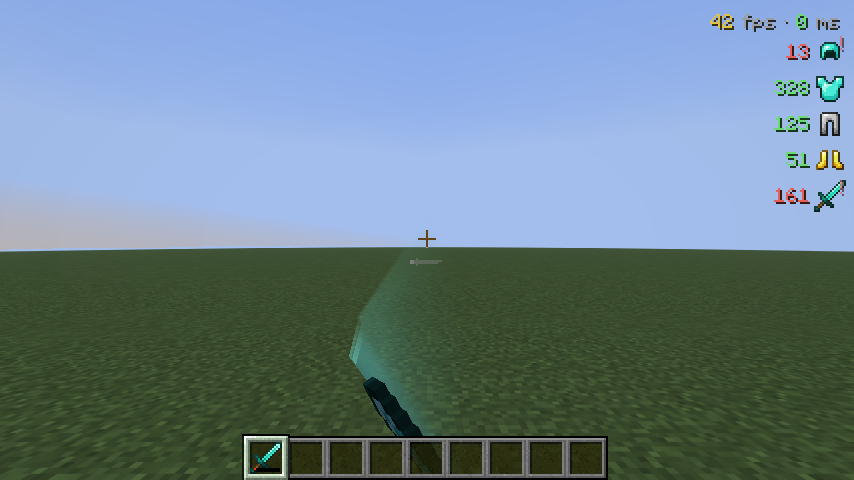
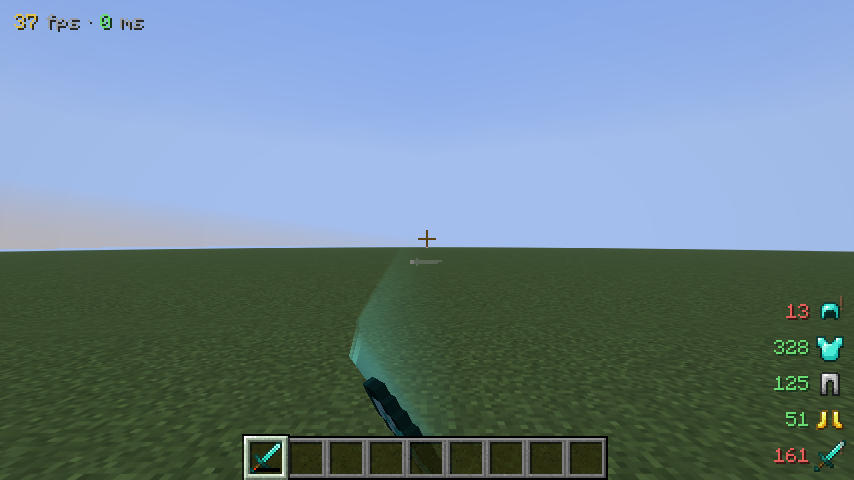
Put fps in the top left and the gear column in the bottom right
Both widgets keep their looks; only the corners change, so they no
longer share one edge. gearOffsetY drops back to 4 now that the column
has no fps line to clear.

Claude-Session: https://claude.ai/code/session_019DrZa5PzJB61hSRd2oM9X4

diff --git a/old-sword-blocking/src/main/java/com/pero321/oldswordblocking/config/ModConfig.java b/old-sword-blocking/src/main/java/com/pero321/oldswordblocking/config/ModConfig.java
@@ -106,17 +106,16 @@ public class ModConfig {
         public boolean showFps = true;
         public boolean showPing = true;
         /** TOP_LEFT, TOP_RIGHT, BOTTOM_LEFT or BOTTOM_RIGHT. */
-        public String infoAnchor = "TOP_RIGHT";
+        public String infoAnchor = "TOP_LEFT";
         /** Distance inwards from that corner, in pixels. */
         public int infoOffsetX = 4;
         public int infoOffsetY = 4;
 
         /** Armour and held tools with a durability bar under each. */
         public boolean showGear = true;
-        public String gearAnchor = "TOP_RIGHT";
+        public String gearAnchor = "BOTTOM_RIGHT";
         public int gearOffsetX = 4;
-        /** Clear of the fps line by default, so the two stack into one column. */
-        public int gearOffsetY = 18;
+        public int gearOffsetY = 4;
 
         /** VERTICAL stacks the pieces down the side; HORIZONTAL lays them out in a row. */
         public String gearLayout = "VERTICAL";

diff --git a/old-sword-blocking/README.md b/old-sword-blocking/README.md
@@ -81,9 +81,9 @@ already says both, and while any screen is open.
 
 ### Gear durability, with a warning
 
-A column down the right edge, under the fps line: the durability **actually left** on each piece of
-armour and each held tool, next to its icon, coloured by how much of it there is. Points left, not
-a percentage — that is the number you act on.
+A column in the bottom right corner: the durability **actually left** on each piece of armour and
+each held tool, next to its icon, coloured by how much of it there is. Points left, not a
+percentage — that is the number you act on.
 
 Anything that drops into the danger zone gets a pulsing red badge in the corner of its icon and,
 **once**, a line in chat naming the piece — so a helmet never quietly pops mid fight. A repair or a
@@ -96,7 +96,7 @@ Both widgets sit bare on the screen by default. `hud.background` puts a soft pan
 
 1. [Fabric Loader](https://fabricmc.net/use/installer/) 0.19.3 or newer, for Minecraft 1.21.11.
 2. [Fabric API](https://modrinth.com/mod/fabric-api) for 1.21.11 into `mods/`.
-3. **[dist/old-sword-blocking-1.3.0.jar](dist/old-sword-blocking-1.3.0.jar)** into `mods/`
+3. **[dist/old-sword-blocking-1.3.1.jar](dist/old-sword-blocking-1.3.1.jar)** into `mods/`
    (use the *Download raw file* button on GitHub).
 
 Java 21 or newer, same as 1.21.11 itself.
@@ -154,12 +154,12 @@ leaves a streak.
 |---|---|---|
 | `background` | `false` | A soft panel behind each widget |
 | `showFps`, `showPing` | `true` | |
-| `infoAnchor` | `TOP_RIGHT` | `TOP_LEFT`, `TOP_RIGHT`, `BOTTOM_LEFT` or `BOTTOM_RIGHT` |
+| `infoAnchor` | `TOP_LEFT` | `TOP_LEFT`, `TOP_RIGHT`, `BOTTOM_LEFT` or `BOTTOM_RIGHT` |
 | `infoOffsetX/Y` | `4` | Pixels inwards from that corner |
 | `showGear` | `true` | The armour and tool column |
-| `gearAnchor` | `TOP_RIGHT` | |
+| `gearAnchor` | `BOTTOM_RIGHT` | |
 | `gearOffsetX` | `4` | |
-| `gearOffsetY` | `18` | Clear of the fps line, so the two stack into one column |
+| `gearOffsetY` | `4` | |
 | `gearLayout` | `VERTICAL` | `VERTICAL` down the side, or `HORIZONTAL` in a row |
 | `onlyDamagedGear` | `false` | Hide pieces still at full durability |
 | `showDurabilityNumbers` | `true` | The durability left, as a number, beside each icon |
